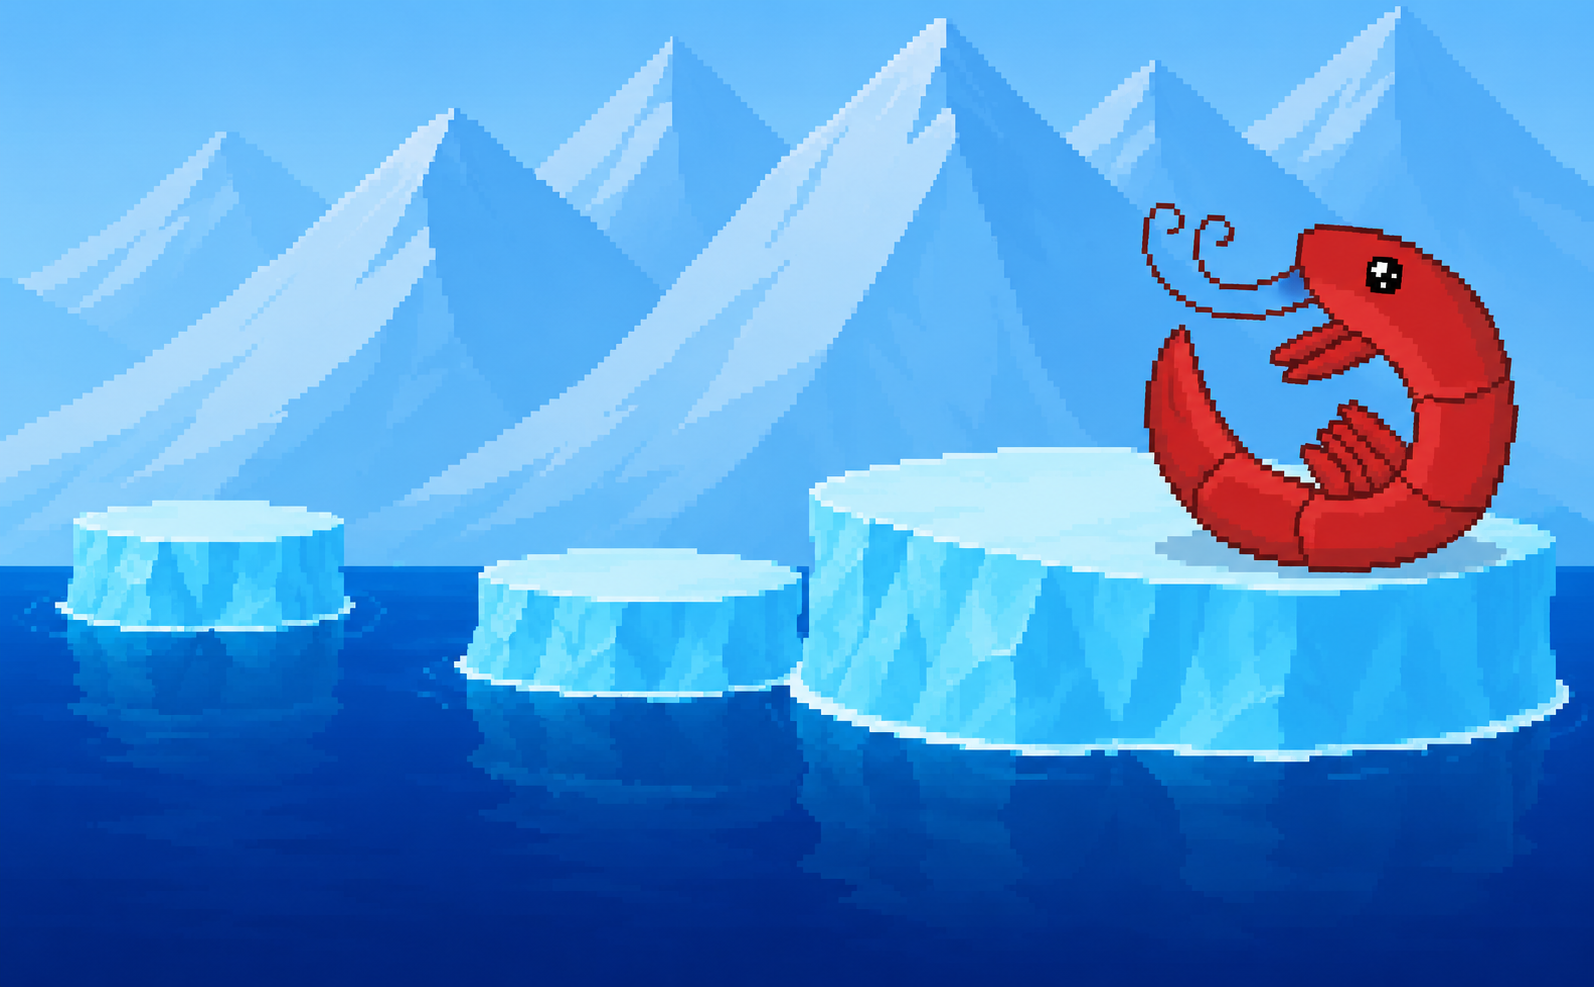
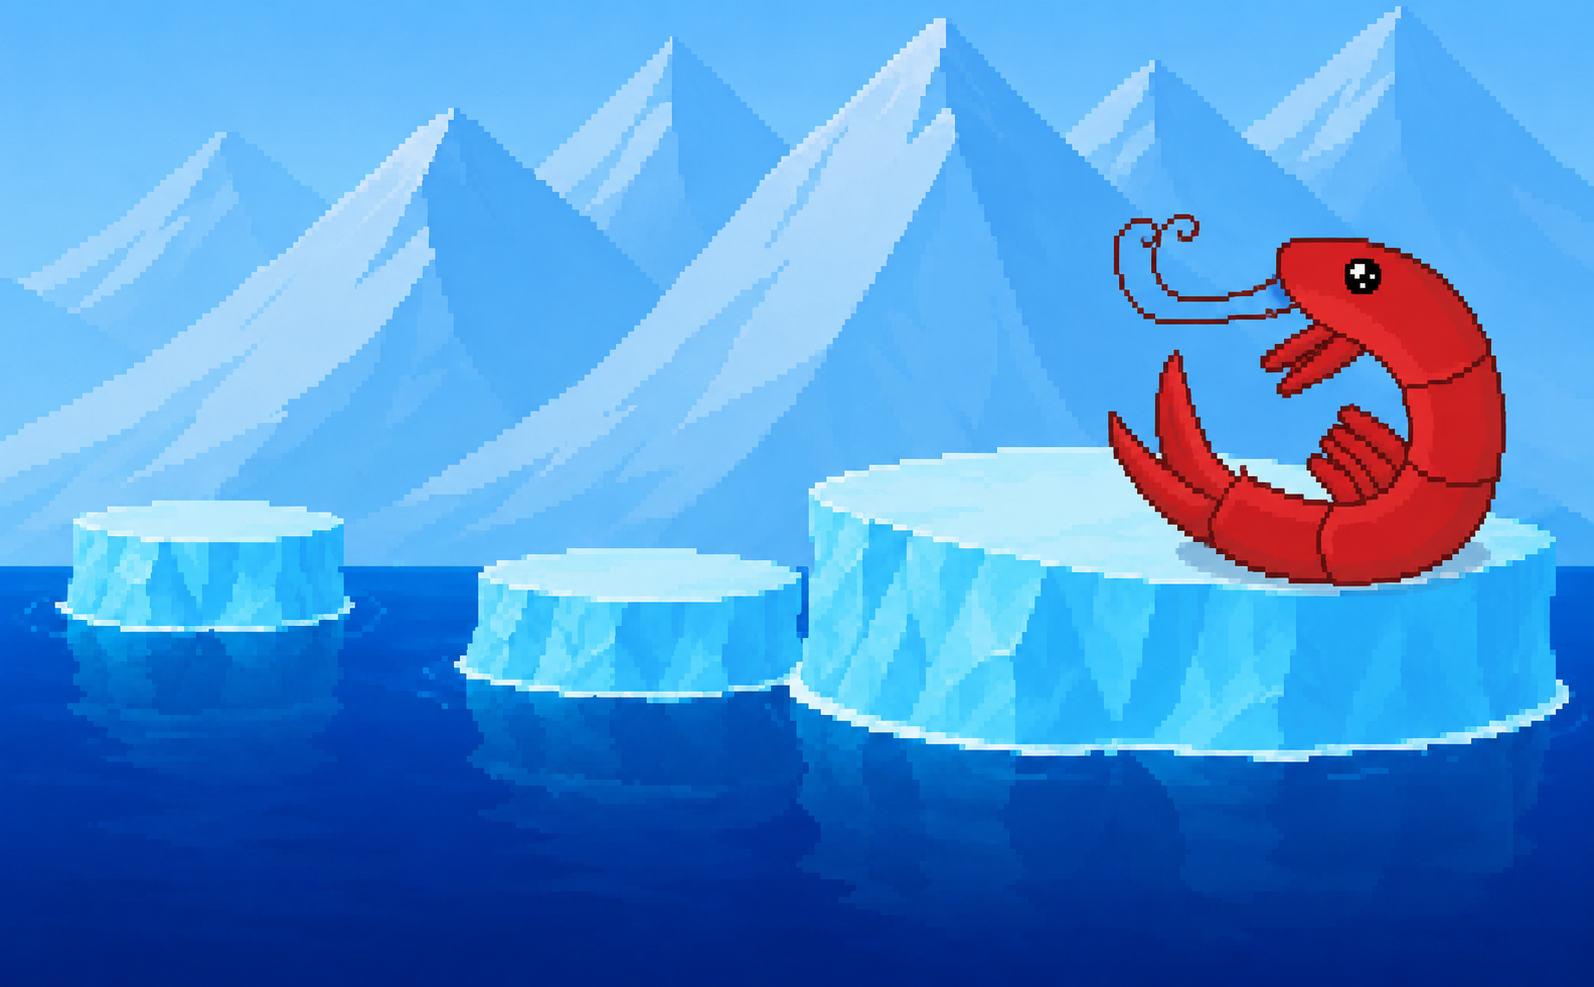
Change to the bg image for shrimps and the descriptionText-color

Changed region(s): [[0.6763, 0.1824, 0.9529, 0.6079]]

diff --git a/app/globals.css b/app/globals.css
@@ -172,6 +172,10 @@ nav {
   line-height: 1.7;
 }
 
+.project-content.hover-reveal:hover .description {
+  color: #d0d0d0;
+}
+
 .project-content.hover-reveal {
   position: relative;
   z-index: 0;
